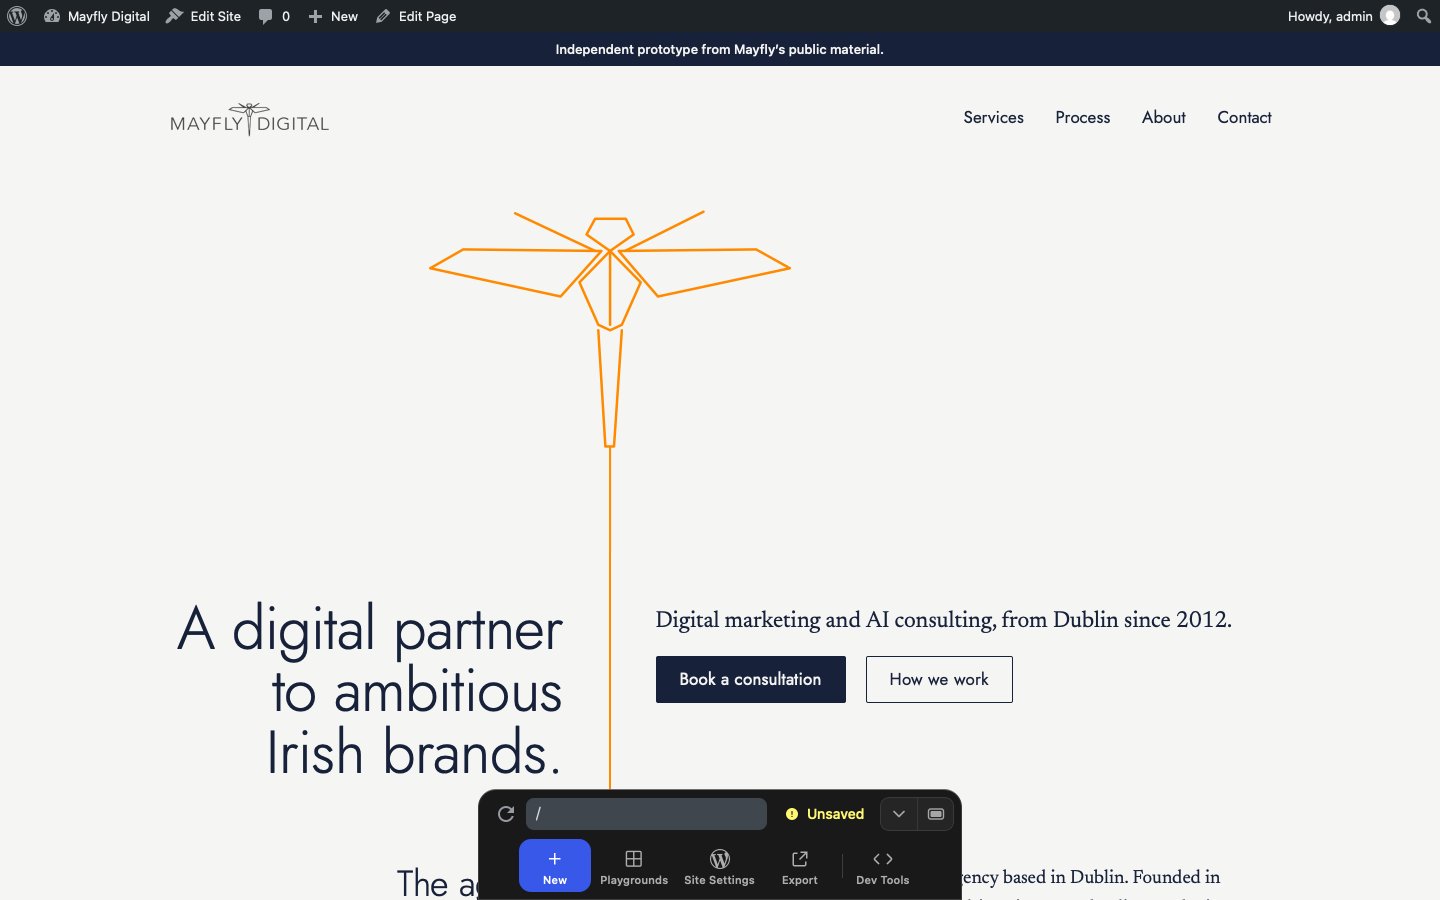
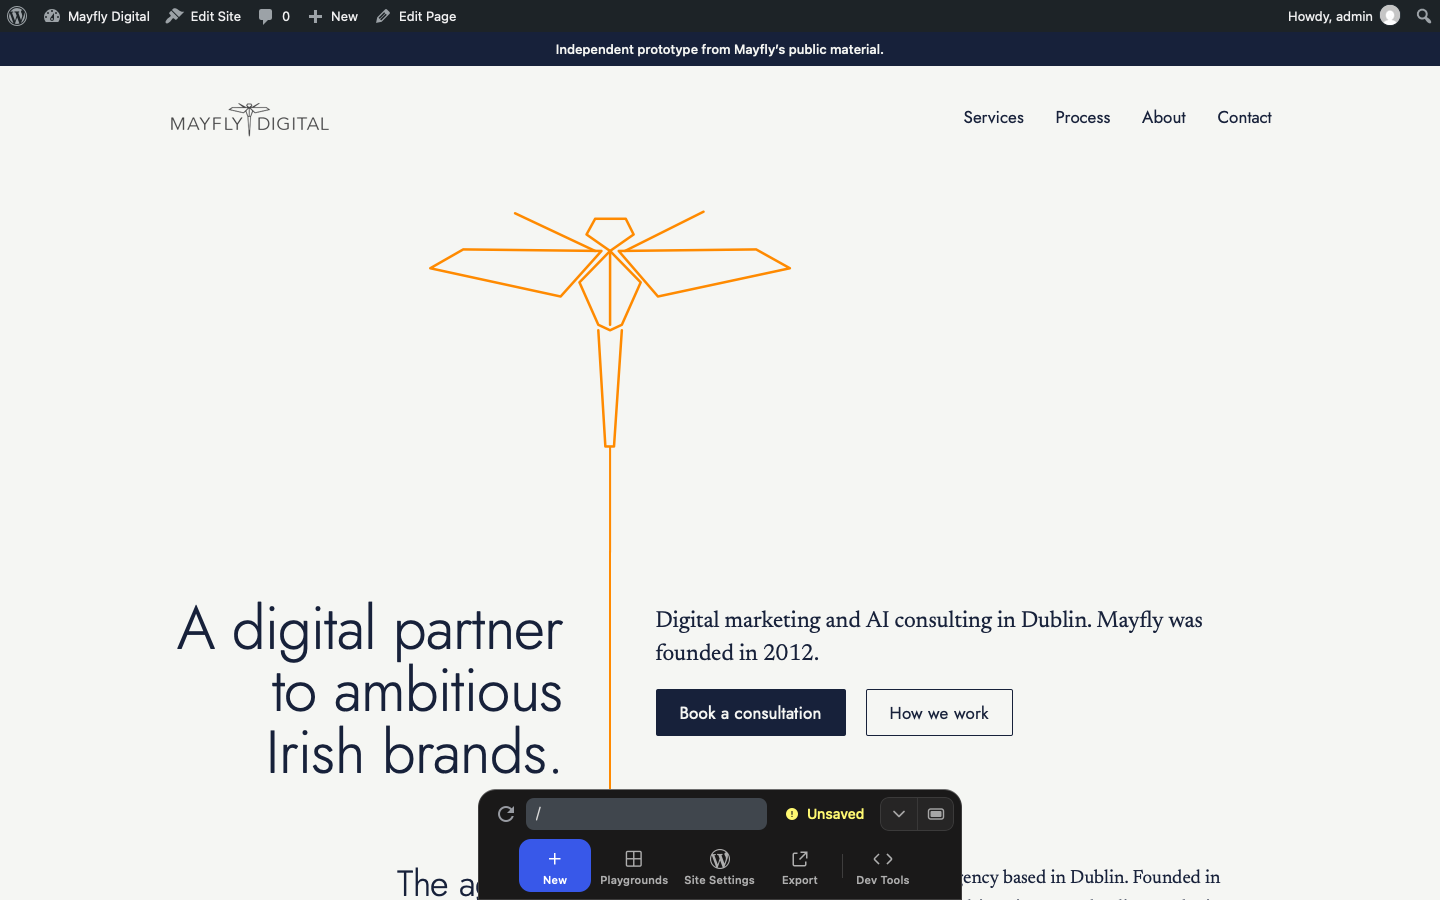
v1.1: QA report and trace
Claude-Session: https://claude.ai/code/session_01YMaA5HY9wHugsquV1D85d2

Changed region(s): [[0.4375, 0.7156, 0.6875, 0.84], [0.6875, 0.6844, 0.8438, 0.7156]]

diff --git a/qa/REPORT.md b/qa/REPORT.md
@@ -15,6 +15,7 @@ Each line: result, what was checked, and its scope. Raw output in the JSON files
 | Passed | Phone menu opens and its first link leads to a page | 390 px. Closing it, Escape and focus return are not checked |
 | Passed | Schema: JSON-LD parses, and its text values (not URLs or @ keys) are in `01-brief.md` | not a full schema or SEO validation |
 | Passed | Public Playground link, cold start in a clean profile: 9.1 s Chromium, 9.3 s WebKit, 9.4 s WebKit iPhone 13 profile | `qa/mayfly/playground.json`, one run each, on a fast line; a slower line will be slower |
+| Passed | v1.1 blueprint, same test: 9.7 s Chromium, 9.3 s WebKit, 9.8 s WebKit iPhone 13 profile (emulated) | `qa/mayfly/playground.json` |
 | Failed, then fixed | The first public blueprint was refused by Playground (`writeFiles` needs `"resource": "literal:directory"`) | found by opening the link; fixed in `build_blueprint.py`, re-tested above |
 | Not tested | Screen reader by hand; colour contrast in the editor; print | |
 | Not tested | Page speed | inside Playground PHP runs in the browser, so a score would mean nothing |

diff --git a/runs/mayfly-digital-2026-10-01/TRACE.md b/runs/mayfly-digital-2026-10-01/TRACE.md
@@ -159,3 +159,5 @@ Times are Dublin time.
   line split so it no longer implies AI consulting since 2012, the second agency paragraph removed.
 - Correction to this file's header: steps were not each committed on their own; steps 7 to 9, for example, share
   one commit. Recorded during the build, with intermediate commits, is the accurate description.
+- Blueprint rebuilt with the theme at `787e1cc`; cold start in a clean profile 9.7 s Chromium, 9.3 s WebKit, 9.8 s
+  emulated iPhone. Tagged `v1.1`.
